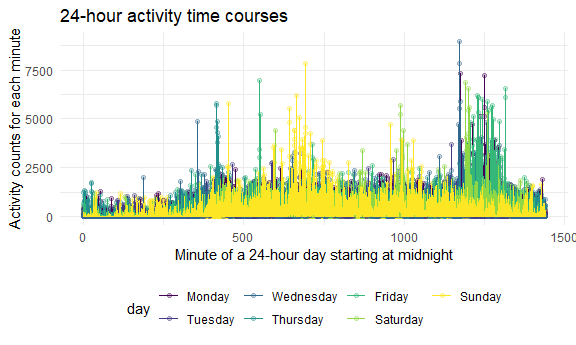
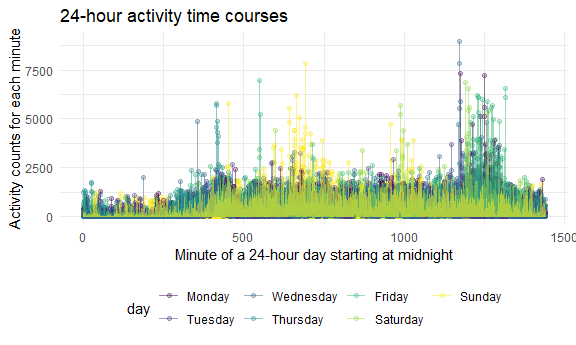
problem 3 -- clean data + 2 plots

Changed region(s): [[0.125, 0.2319, 0.9688, 0.6377]]

diff --git a/p8105_hw3_rl3034.md b/p8105_hw3_rl3034.md
@@ -1,7 +1,7 @@
 P8105 Homework 3
 ================
 Ruiyang Li
-2020-10-07
+2020-10-10
 
 This is my solution to HW3.
 
@@ -222,7 +222,7 @@ accel_df %>%
     group_by(day, minute) %>% 
   ggplot(aes(x = minute, y = activity, color = day)) + 
     geom_point(alpha = 0.3) + 
-    geom_line() + 
+    geom_line(alpha = 0.5) + 
     labs(
     title = "24-hour activity time courses",
     x = "Minute of a 24-hour day starting at midnight",
@@ -230,3 +230,148 @@ accel_df %>%
 ```
 
 <img src="p8105_hw3_rl3034_files/figure-gfm/unnamed-chunk-7-1.png" width="90%" />
+
+## Problem 3
+
+``` r
+data("ny_noaa")
+
+ny_noaa %>%
+  select(-id, -date) %>% 
+  summarise_all(list(~sum(is.na(.))))/nrow(ny_noaa)
+##        prcp     snow      snwd      tmax      tmin
+## 1 0.0561958 0.146896 0.2280331 0.4371025 0.4371264
+```
+
+This dataset was acquired from all New York state weather stations from
+January 1, 1981 through December 31, 2010. It contains 2595176 rows and
+7 columns. Each weather station has multiple dates of observation, so
+the data is in the long format. There are precipitation variable, snow
+variables (snowfall and snow depth) and temperature variables (maximum
+temperature and minimum temperature). There is a lot of missing data in
+this dataset, which could be an issue. 43.7% data was missing for both
+temperature variables; 22.8% data on snow depth was missing; about 15%
+data on snowfall was missing.
+
+``` r
+ny_noaa_tidy = 
+    ny_noaa %>% 
+    separate(date, into = c("year", "month", "day"), sep = "-") %>% 
+    mutate(
+        prcp = prcp/10,
+        tmax = as.numeric(tmax),
+        tmax = tmax/10, 
+        tmin = as.numeric(tmin),
+        tmin = tmin/10, 
+        year = as.numeric(year),
+        month = month.name[as.numeric(month)], 
+        day = as.numeric(day)
+    )
+
+ny_noaa_tidy %>% 
+    count(snow) %>% 
+    arrange(desc(n))
+## # A tibble: 282 x 2
+##     snow       n
+##    <int>   <int>
+##  1     0 2008508
+##  2    NA  381221
+##  3    25   31022
+##  4    13   23095
+##  5    51   18274
+##  6    76   10173
+##  7     8    9962
+##  8     5    9748
+##  9    38    9197
+## 10     3    8790
+## # ... with 272 more rows
+```
+
+  - For snowfall, the most commonly observed values are 0 as it occurs
+    2008508 times.
+
+  - Below is a two-panel plot showing the average max temperature in
+    January and in July in each station across years. It looks that the
+    average max temperatures in 2010 were slightly higher than those in
+    1981. Also, the average max temperatures in January in 2004 and 1994
+    are much lower than those in the rest of the years. The average max
+    temperatures in July looks to be less variable than that in January
+    and the temperatures did not change much. There are a few outliers.
+    There is one extreme value in 1981 in January and some others in
+    1988, 2004, and 2007 in July. There seems to be one station has its
+    values lower than the rest of the stations in July.
+
+<!-- end list -->
+
+``` r
+avg_tmax_jan_plt = 
+    ny_noaa_tidy %>% 
+    filter(month %in% c("January")) %>% 
+    group_by(id, year, month) %>% 
+    summarise(avg_tmax = mean(tmax)) %>% 
+    drop_na() %>% 
+    ggplot(aes(x = year, y = avg_tmax, group = id, color = id)) + 
+    geom_point(alpha = 0.3) + 
+    geom_line(alpha = 0.3) +
+    labs(
+    title = "Average maximum temperature in January in each station across years",
+    x = "Year",
+    y = "Average maximum temperature (degrees C)") + 
+    theme(legend.position = 'none',
+        axis.title.x = element_blank())
+## `summarise()` regrouping output by 'id', 'year' (override with `.groups` argument)
+
+avg_tmax_jul_plt = 
+    ny_noaa_tidy %>% 
+    filter(month %in% c("July")) %>% 
+    group_by(id, year, month) %>% 
+    summarise(avg_tmax = mean(tmax)) %>% 
+    drop_na() %>% 
+    ggplot(aes(x = year, y = avg_tmax, group = id, color = id)) + 
+    geom_point(alpha = 0.3) + 
+    geom_line(alpha = 0.3) +
+    labs(
+    title = "Average maximum temperature in July in each station across years",
+    x = "Year",
+    y = "Average maximum temperature (degrees C)") + 
+    theme(legend.position = 'none',
+        axis.title.x = element_blank())
+## `summarise()` regrouping output by 'id', 'year' (override with `.groups` argument)
+
+avg_tmax_jan_plt / avg_tmax_jul_plt
+```
+
+<img src="p8105_hw3_rl3034_files/figure-gfm/unnamed-chunk-10-1.png" width="90%" />
+
+  - The following two-panel plot shows (i) tmax vs tmin for the full
+    dataset; and (ii) the distribution of snowfall values greater than 0
+    and less than 100 separately by year.
+
+<!-- end list -->
+
+``` r
+tmin_tmax_p = 
+    ny_noaa_tidy %>% 
+    ggplot(aes(x = tmin, y = tmax)) + 
+    geom_hex() +
+    theme(legend.direction = 'vertical', legend.position = "right")
+
+snow_p = 
+    ny_noaa_tidy %>% 
+    mutate(year = as.character(year)) %>% 
+    filter(snow > 0 & snow < 100) %>% 
+    ggplot(aes(x = snow, y = year)) +
+  geom_density_ridges(scale = .85)
+
+tmin_tmax_p + snow_p
+## Warning: Removed 1136276 rows containing non-finite values (stat_binhex).
+## Picking joint bandwidth of 3.76
+```
+
+<img src="p8105_hw3_rl3034_files/figure-gfm/unnamed-chunk-11-1.png" width="90%" />
+
+These data were accessed from the NOAA National Climatic Data Center,
+<http://doi.org/10.7289/V5D21VHZ>, on August 15, 2017.(Menne, M.J., I.
+Durre, B. Korzeniewski, S. McNeal, K. Thomas, X. Yin, S. Anthony, R.
+Ray, R.S. Vose, B.E.Gleason, and T.G. Houston, 2012: Global Historical
+Climatology Network - Daily (GHCN-Daily), Version 3.22.)
